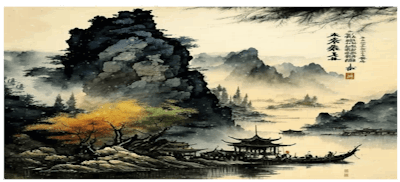
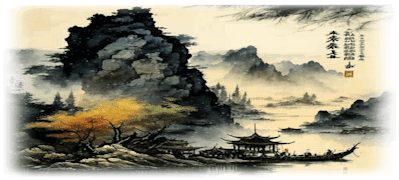
Commit changes made 6th Nov 2023

diff --git a/index.html b/index.html
@@ -1,7 +1,7 @@
 <html>
 <head><title>Scarlet Horizons Campaign</title></head>
 <body>
-<center><img width="500" src="./images/orientalHorizons.jpg"><br>
+<center><img src="./images/orientalHorizons_w400.png"><br>
 <font color="#BB0000" size="22"><b>Scarlet Horizons</b></font><br>
 Home of adventure since Oct. 18, 2023</center>
 </body>
